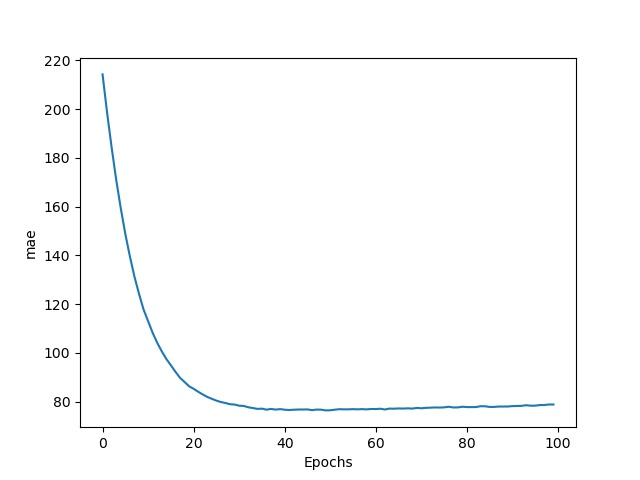
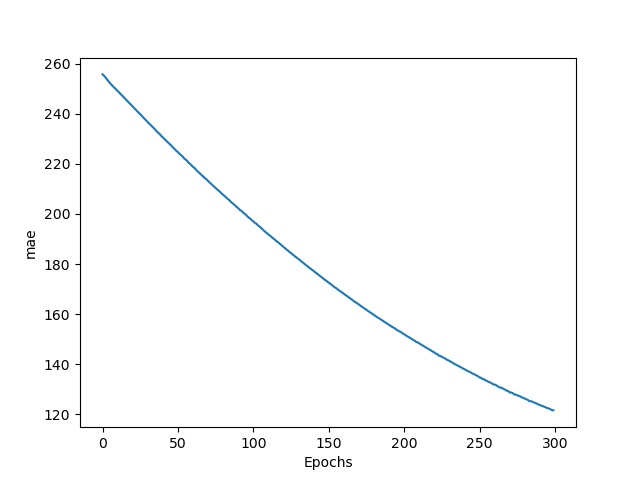
Update

diff --git a/prediction_for_lily_price_and_volume/train.py b/prediction_for_lily_price_and_volume/train.py
@@ -29,10 +29,10 @@ else:
 n = 10  # 取前n天的資料作為特徵
 
 #載入資料集
-train_x = pd.read_csv(r'D:\dataset\lilium_price\train_x\100-108_2all.csv', encoding='utf-8')
-train_y = pd.read_csv(r'D:\dataset\lilium_price\train_y\100-108_2all.csv', encoding='utf-8')
-val_x = pd.read_csv(r'D:\dataset\lilium_price\val_x\100-108_2all.csv', encoding='utf-8')
-val_y = pd.read_csv(r'D:\dataset\lilium_price\val_y\100-108_2all.csv', encoding='utf-8')
+train_x = pd.read_csv(r'D:\dataset\lilium_price\train_x\104-108_879-899all.csv', encoding='utf-8')
+train_y = pd.read_csv(r'D:\dataset\lilium_price\train_y\104-108_879-899all.csv', encoding='utf-8')
+val_x = pd.read_csv(r'D:\dataset\lilium_price\val_x\104-108_879-899all.csv', encoding='utf-8')
+val_y = pd.read_csv(r'D:\dataset\lilium_price\val_y\104-108_879-899all.csv', encoding='utf-8')
 
 #正規化
 x_scaler = StandardScaler().fit(train_x)
@@ -49,10 +49,10 @@ trainset = utils.Setloader(train_x, train_y)
 valset = utils.Setloader(val_x, val_y)
 
 # train
-batch_size = 100
-val_batch_size = 100
+batch_size = train_x.shape[0]
+val_batch_size = val_x.shape[0]
 LR = 0.01
-num_epochs = 100
+num_epochs = 300
 
 model = model.RNN_modelv1(input_dim=train_x.shape[1], output_dim=train_y.shape[1]).to(device)
 # 選擇優化器與損失函數
@@ -120,7 +120,7 @@ for epoch in range(num_epochs):
                             'mae': running_mae
                         })
                 pbar.update(1)
-    scheduler.step()
+    # scheduler.step()
     val_loss = total_val_loss/len(valloader.dataset)
     mae = total_mae/len(valloader.dataset)
     val_loss_list.append(val_loss)

diff --git a/prediction_for_lily_price_and_volume/net/model.py b/prediction_for_lily_price_and_volume/net/model.py
@@ -7,7 +7,7 @@ class RNN_modelv1(nn.Module):
         self.rnn1 = nn.LSTM(
             input_size=input_dim,
             hidden_size=64,
-            num_layers=1,
+            num_layers=2,
             batch_first=True
         )
 
